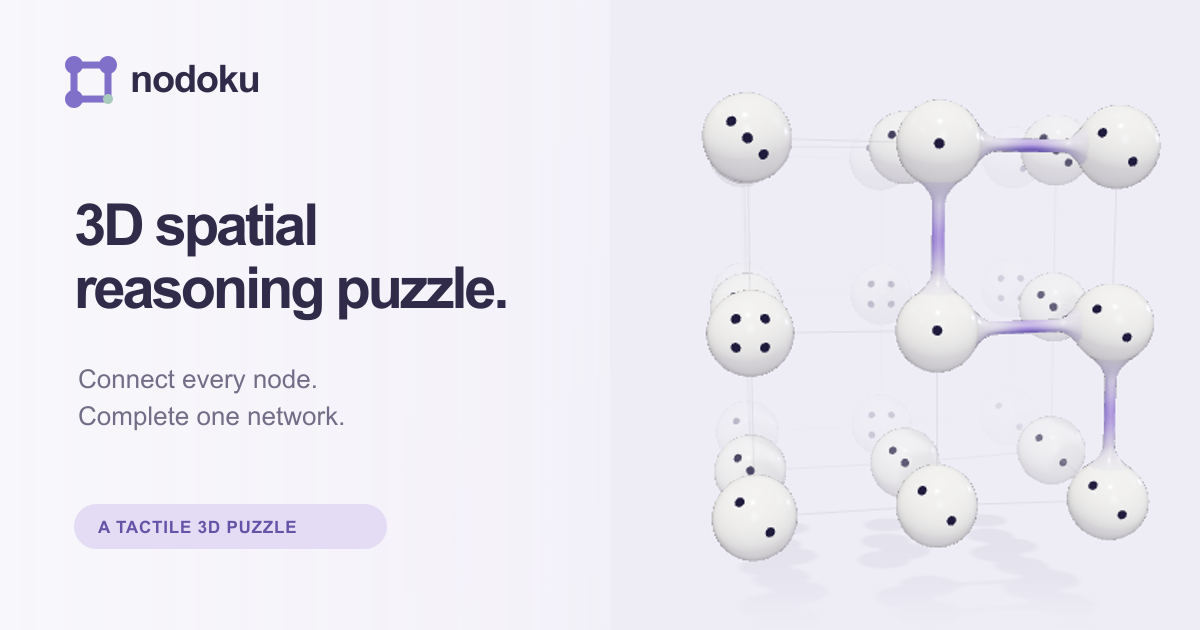
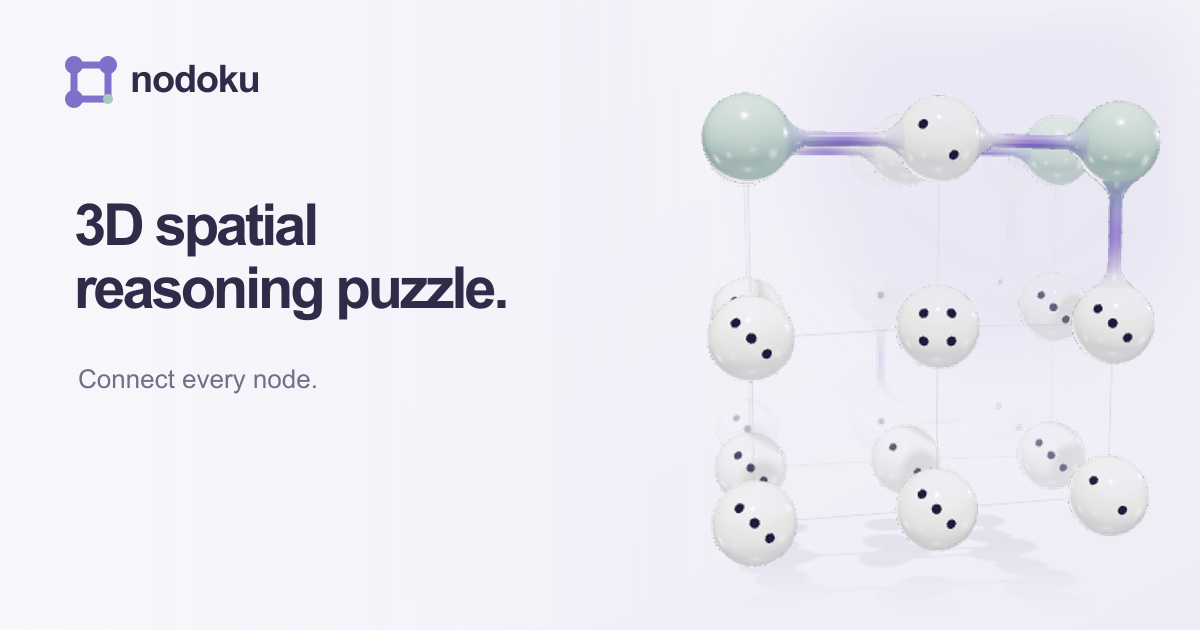
Simplify Open Graph board scene

diff --git a/tests/open-graph.test.ts b/tests/open-graph.test.ts
@@ -25,8 +25,11 @@ test("Open Graph image uses the captured Three.js board and has large social-car
   const generator = await readFile(new URL("../scripts/generate-og-image.mjs", import.meta.url), "utf8");
   assert.match(generator, /og-scene\.png/);
   assert.match(generator, /actual Three\.js home board/);
+  assert.doesNotMatch(generator, /Complete one network\.|A TACTILE 3D PUZZLE/);
   const image = await sharp(new URL("../static/og-image.png", import.meta.url).pathname).metadata();
   assert.equal(image.format, "png");
   assert.equal(image.width, 1200);
   assert.equal(image.height, 630);
+  const capture = await sharp(new URL("../static/og-scene.png", import.meta.url).pathname).metadata();
+  assert.equal(capture.hasAlpha, true, "the Three.js board capture has no opaque canvas background");
 });

diff --git a/progress.md b/progress.md
@@ -1482,3 +1482,7 @@ TODO / Note
 2026-09-11 Fixed, uninterrupted landing preview
 - Landing previews now reject all scene zoom calls, so wheel, trackpad and pinch input cannot alter the preview framing. The board remains rotatable through a freeform drag, but preview release does not snap into a camera animation that could hold the solver.
 - HomeDemo no longer treats preview input as a reason to insert the interaction pause. It still waits for its own connection/camera animations, explicit pause, dialogs, suspension and shape transitions. Unit and real-browser coverage verify fixed camera distance, manual rotation and continued connection additions while the pointer is held. All190 tests and the production build pass; browser errors are empty.
+
+2026-09-11 Simplified Open Graph scene
+- Removed “Complete one network.” and the “A TACTILE 3D PUZZLE” pill from the social card. The remaining copy is the title and “Connect every node.”
+- Re-captured the actual Three.js board after11 demo connections, so three completed nodes are sage green. Its opaque page-color pixels are converted to alpha before composition, leaving the board, links and soft shadows without a rectangular canvas backdrop. The generator and test assert the transparent scene source and removed copy; all190 tests and the production build pass.
